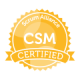
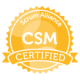
badges update

diff --git a/_layouts/default.html b/_layouts/default.html
@@ -39,7 +39,7 @@
             </ul>
             {% endif %}
 
-            <ul class="downloads">
+            <ul class="badges">
                 <li><img src="https://mihaj.github.io/images/devops.png" alt="DevOps Engineer" /></li>
                 <li><img src="https://mihaj.github.io/images/MCSD-AppBuilder.png" alt="MCSD" /></li>
                 <li><img src="https://mihaj.github.io/images/csm.png" alt="Scrum Master" /></li>

diff --git a/_sass/jekyll-theme-minimal.scss b/_sass/jekyll-theme-minimal.scss
@@ -111,6 +111,21 @@ header {
   -webkit-font-smoothing:subpixel-antialiased;
 }
 
+ul.badges {
+    list-style: none;
+    height: 100px;
+    padding: 2px;
+    background: #fff;
+    border-radius: 5px;
+    width: 270px;
+}
+
+.badges li {
+    width: 89px;
+    float: left;
+    height: 100px;
+}
+
 ul.downloads {
   list-style:none;
   height:40px;
